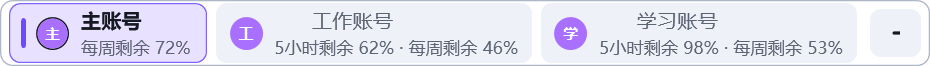
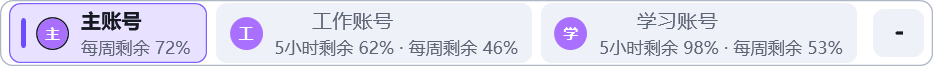
Fix responsive account overlay width and quota clipping

diff --git a/tests/OverlayUiRegression/ResponsiveLayoutRegression.cs b/tests/OverlayUiRegression/ResponsiveLayoutRegression.cs
@@ -1,0 +1,100 @@
+using System.Reflection;
+using System.Windows;
+using System.Windows.Controls;
+using System.Windows.Interop;
+using CodexProfileOverlay.Core.Models;
+using CodexProfileOverlay.Core.Services;
+
+internal static partial class Program
+{
+    private static void RunResponsiveLayoutScenario(double scale, LanguagePreference language)
+    {
+        var host = new Window { Title = "Responsive Overlay Fixture", Width = 1450, Height = 700, Left = 20, Top = 20, ShowInTaskbar = false };
+        var settings = new OverlaySettings { DisplayMode = OverlayDisplayMode.Auto, Scale = scale, ShowAutomaticLimitIndicators = true, Language = language, PositionPreset = PositionPreset.TopCenter };
+        var overlay = (Window)Activator.CreateInstance(OverlayType, settings, new SafeLogger(System.IO.Path.Combine(AppContext.BaseDirectory, "fixture-logs")))!;
+        try
+        {
+            host.Show();
+            Pump();
+            var localizerType = typeof(CodexProfileOverlay.App).Assembly.GetType("CodexProfileOverlay.Localizer")!;
+            OverlayType.GetProperty("Localizer")!.SetValue(overlay, Activator.CreateInstance(localizerType, language));
+            ProfileInfo[] profiles = [new("responsive-main", "unused", "unused") { DisplayName = "主账号", Initials = "主" }, new("responsive-two", "unused", "unused") { DisplayName = "475账号", Initials = "4" }, new("responsive-three", "unused", "unused") { DisplayName = "199账号", Initials = "1" }];
+            Call(overlay, "SetProfiles", profiles, profiles[1].Name);
+            Call(overlay, "SetStatusDocument", Document(profiles, 0), null);
+            var handle = new WindowInteropHelper(host).Handle;
+            Call(overlay, "AttachTo", handle);
+            Call(overlay, "UpdatePlacement", handle);
+            Pump();
+            AssertExpandedProfilesFit(overlay);
+            double requiredWidth = overlay.ActualWidth;
+
+            // The former fixed 620-DIP panel cannot fit two quota windows per account.
+            host.Width = requiredWidth - 35;
+            Pump();
+            Call(overlay, "UpdatePlacement", handle);
+            Pump();
+            Require((OverlayDisplayMode)OverlayType.GetField("currentMode", BindingFlags.Instance | BindingFlags.NonPublic)!.GetValue(overlay)! == OverlayDisplayMode.Compact,
+                "Auto mode must become compact when the actual account row no longer fits.");
+            Require(overlay.ActualWidth <= host.ActualWidth, "Compact overlay exceeds its owner window.");
+
+            host.Width = 1450;
+            Pump();
+            Call(overlay, "UpdatePlacement", handle);
+            Pump();
+            AssertExpandedProfilesFit(overlay);
+            Call(overlay, "SetStatusDocument", Document(profiles, 1), null);
+            Call(overlay, "UpdatePlacement", handle);
+            Pump();
+            AssertExpandedProfilesFit(overlay);
+            // Match a stale weekly-only account beside two full quota lines.
+            var screenshotDocument = Document(profiles, 0);
+            screenshotDocument.Snapshots[profiles[0].Name] = new UsageSnapshot { LongWindowRemainingPercent = 0, CapturedAt = DateTimeOffset.UtcNow.AddHours(-2) };
+            Call(overlay, "SetStatusDocument", screenshotDocument, null);
+            foreach (var active in profiles)
+            {
+                Call(overlay, "SetProfiles", profiles, active.Name);
+                Call(overlay, "UpdatePlacement", handle);
+                Pump();
+                AssertExpandedProfilesFit(overlay);
+            }
+            if (scale == 1 && language == LanguagePreference.ChineseSimplified)
+            {
+                var bitmap = new System.Windows.Media.Imaging.RenderTargetBitmap((int)Math.Ceiling(overlay.ActualWidth * 2), (int)Math.Ceiling(overlay.ActualHeight * 2), 192, 192, System.Windows.Media.PixelFormats.Pbgra32);
+                bitmap.Render((Border)overlay.Content);
+                var encoder = new System.Windows.Media.Imaging.PngBitmapEncoder();
+                encoder.Frames.Add(System.Windows.Media.Imaging.BitmapFrame.Create(bitmap));
+                using var file = System.IO.File.Create(System.IO.Path.Combine(AppContext.BaseDirectory, "responsive-layout-preview.png"));
+                encoder.Save(file);
+            }
+            Evidence.Add(new { kind = "responsive-layout", scale, language = language.ToString(), requiredWidth, refreshedWidth = overlay.ActualWidth });
+
+            var manyProfiles = Enumerable.Range(0, 12).Select(index => new ProfileInfo("responsive-" + index, "unused", "unused") { DisplayName = "账号 " + index }).ToArray();
+            Call(overlay, "SetProfiles", manyProfiles, manyProfiles[0].Name);
+            Call(overlay, "SetStatusDocument", Document(manyProfiles, 0), null);
+            Pump();
+            Require((OverlayDisplayMode)OverlayType.GetField("currentMode", BindingFlags.Instance | BindingFlags.NonPublic)!.GetValue(overlay)! == OverlayDisplayMode.Compact,
+                "Adding more accounts must immediately switch to compact without waiting for an owner resize.");
+            host.Width = 260;
+            Pump();
+            Call(overlay, "UpdatePlacement", handle);
+            Pump();
+            Require(overlay.ActualWidth <= host.ActualWidth, "Overlay exceeds a very narrow owner window.");
+        }
+        finally { overlay.Close(); host.Close(); Pump(); }
+    }
+
+    private static void AssertExpandedProfilesFit(Window overlay)
+    {
+        Require((OverlayDisplayMode)OverlayType.GetField("currentMode", BindingFlags.Instance | BindingFlags.NonPublic)!.GetValue(overlay)! == OverlayDisplayMode.Expanded, "Wide windows should show the expanded account row.");
+        var scroller = Descendants((DependencyObject)overlay.Content).OfType<ScrollViewer>().Single();
+        Require(scroller.ScrollableWidth <= 1, $"Account row overflows by {scroller.ScrollableWidth} DIP.");
+        foreach (var text in Descendants(scroller).OfType<TextBlock>().Where(text => text.Text.Contains('%')))
+        {
+            var bounds = text.TransformToAncestor(scroller).TransformBounds(new Rect(text.RenderSize));
+            Require(bounds.Left >= -0.5 && bounds.Right <= scroller.ActualWidth + 0.5, $"Quota text is outside the account viewport: {text.Text}.");
+            var natural = new TextBlock { Text = text.Text, FontFamily = text.FontFamily, FontSize = text.FontSize, FontWeight = text.FontWeight };
+            natural.Measure(new System.Windows.Size(double.PositiveInfinity, double.PositiveInfinity));
+            Require(text.ActualWidth >= natural.DesiredSize.Width - 1, $"Quota text is truncated inside its account button: {text.Text}.");
+        }
+    }
+}

diff --git a/src/CodexProfileOverlay/OverlayWindow.cs b/src/CodexProfileOverlay/OverlayWindow.cs
@@ -49,6 +49,8 @@ internal sealed class OverlayWindow : Window
     private double lastTargetTop = double.NaN;
     private bool placementDirty = true;
     private string indicatorSignature = string.Empty;
+    private double expandedLogicalWidth = 620;
+    private double availableClientWidth = double.PositiveInfinity;
 
     public OverlayWindow(OverlaySettings settings, SafeLogger logger)
     {
@@ -156,7 +158,8 @@ internal sealed class OverlayWindow : Window
             return;
         }
 
-        OverlayDisplayMode nextMode = layoutService.ResolveDisplayMode(settings.DisplayMode, clientBounds.Width, resolvedAutoMode);
+        availableClientWidth = clientBounds.Width;
+        OverlayDisplayMode nextMode = layoutService.ResolveDisplayMode(settings.DisplayMode, clientBounds.Width, resolvedAutoMode, expandedLogicalWidth * SanitizedScale);
         if (settings.DisplayMode == OverlayDisplayMode.Auto)
         {
             resolvedAutoMode = nextMode;
@@ -167,6 +170,8 @@ internal sealed class OverlayWindow : Window
             currentMode = nextMode;
             RebuildContent();
         }
+
+        UpdateWidth();
 
         bool geometryChanged = placementDirty || !NearlyEqual(clientBounds, lastClientBounds);
         if (geometryChanged)
@@ -290,15 +295,26 @@ internal sealed class OverlayWindow : Window
         bool reopenPopup = compactPopup.IsOpen && currentMode == OverlayDisplayMode.Compact;
         compactPopup.IsOpen = false;
         placementDirty = true;
-        Width = LogicalWidth * SanitizedScale;
         shell.Height = HeaderHeight;
         shell.MinHeight = HeaderHeight;
         shell.Background = FindBrush("OverlayBackgroundBrush");
         shell.BorderBrush = FindBrush("OverlayBorderBrush");
         shell.BorderThickness = new Thickness(1);
         shell.CornerRadius = new CornerRadius(8);
+        // Measure the complete row, including quota text, active marker, margins
+        // and menu button. Keep this measurement even in compact mode so auto
+        // can decide whether all accounts will fit when the owner grows.
+        UIElement expandedContent = BuildExpandedContent();
+        expandedContent.Measure(new System.Windows.Size(double.PositiveInfinity, HeaderButtonHeight));
+        expandedLogicalWidth = Math.Max(ShowQuota ? 620 : 560, Math.Ceiling(expandedContent.DesiredSize.Width + 12));
+        if (settings.DisplayMode == OverlayDisplayMode.Auto && double.IsFinite(availableClientWidth))
+        {
+            currentMode = layoutService.ResolveDisplayMode(settings.DisplayMode, availableClientWidth, resolvedAutoMode, expandedLogicalWidth * SanitizedScale);
+            resolvedAutoMode = currentMode;
+        }
         shell.Padding = new Thickness(currentMode == OverlayDisplayMode.Compact ? 6 : 5, 1, currentMode == OverlayDisplayMode.Compact ? 6 : 5, 1);
-        shell.Child = currentMode == OverlayDisplayMode.Compact ? BuildCompactContent() : BuildExpandedContent();
+        shell.Child = currentMode == OverlayDisplayMode.Compact ? BuildCompactContent() : expandedContent;
+        UpdateWidth();
         compactPopup.Child = BuildCompactPopup();
         compactPopup.PlacementTarget = shell;
         if (reopenPopup && IsVisible)
@@ -539,7 +555,7 @@ internal sealed class OverlayWindow : Window
         {
             Content = content,
             MinWidth = 108,
-            MaxWidth = ShowQuota ? 240 : 176,
+            MaxWidth = ShowQuota ? double.PositiveInfinity : 176,
             Height = HeaderButtonHeight,
             MinHeight = 0,
             Margin = new Thickness(0, 0, 6, 0),
@@ -653,6 +669,7 @@ internal sealed class OverlayWindow : Window
         Foreground = FindBrush("MutedTextBrush"),
         FontSize = 11.5,
         Margin = margin,
+        TextTrimming = TextTrimming.CharacterEllipsis,
         ToolTip = BuildUsageToolTip(profileId),
     };
 
@@ -1081,7 +1098,17 @@ internal sealed class OverlayWindow : Window
 
     private double SanitizedScale => double.IsFinite(settings.Scale) ? Math.Clamp(settings.Scale, 0.8, 1.4) : 1;
 
-    private double LogicalWidth => currentMode == OverlayDisplayMode.Compact ? (ShowQuota ? 350 : 286) : (ShowQuota ? 620 : 560);
+    private double LogicalWidth => currentMode == OverlayDisplayMode.Compact ? (ShowQuota ? 350 : 286) : expandedLogicalWidth;
+
+    private void UpdateWidth()
+    {
+        double targetWidth = Math.Max(1, Math.Min(LogicalWidth * SanitizedScale, availableClientWidth));
+        if (!NearlyEqual(Width, targetWidth))
+        {
+            Width = targetWidth;
+            placementDirty = true;
+        }
+    }
 
     private void ApplyScale()
     {

diff --git a/src/CodexProfileOverlay.Core/Services/OverlayLayoutService.cs b/src/CodexProfileOverlay.Core/Services/OverlayLayoutService.cs
@@ -9,19 +9,22 @@ public sealed class OverlayLayoutService
     private const double AfterMenuX = 396;
     private const double AfterMenuY = 2;
 
-    public OverlayDisplayMode ResolveDisplayMode(OverlayDisplayMode configuredMode, double clientWidth, OverlayDisplayMode previousAutoMode)
+    public OverlayDisplayMode ResolveDisplayMode(OverlayDisplayMode configuredMode, double clientWidth, OverlayDisplayMode previousAutoMode, double expandedWidth = 0)
     {
         if (configuredMode != OverlayDisplayMode.Auto)
         {
             return configuredMode;
         }
 
-        if (previousAutoMode == OverlayDisplayMode.Expanded && clientWidth < CompactThreshold)
+        double requiredWidth = double.IsFinite(expandedWidth) ? Math.Max(0, expandedWidth) : 0;
+        double compactThreshold = Math.Max(CompactThreshold, requiredWidth);
+        double expandedThreshold = Math.Max(ExpandedThreshold, requiredWidth + 80);
+        if (previousAutoMode == OverlayDisplayMode.Expanded && clientWidth < compactThreshold)
         {
             return OverlayDisplayMode.Compact;
         }
 
-        if (previousAutoMode != OverlayDisplayMode.Expanded && clientWidth > ExpandedThreshold)
+        if (previousAutoMode != OverlayDisplayMode.Expanded && clientWidth > expandedThreshold)
         {
             return OverlayDisplayMode.Expanded;
         }

diff --git a/tests/CodexProfileOverlay.Tests/OverlayLayoutServiceTests.cs b/tests/CodexProfileOverlay.Tests/OverlayLayoutServiceTests.cs
@@ -6,6 +6,17 @@ namespace CodexProfileOverlay.Tests;
 public sealed class OverlayLayoutServiceTests
 {
     [Fact]
+    public void ResolveDisplayMode_RequiresTheCompleteScaledAccountRowToFit()
+    {
+        var service = new OverlayLayoutService();
+        Assert.Equal(OverlayDisplayMode.Compact, service.ResolveDisplayMode(OverlayDisplayMode.Auto, 900, OverlayDisplayMode.Expanded, 950));
+        Assert.Equal(OverlayDisplayMode.Expanded, service.ResolveDisplayMode(OverlayDisplayMode.Auto, 950, OverlayDisplayMode.Expanded, 950));
+        Assert.Equal(OverlayDisplayMode.Compact, service.ResolveDisplayMode(OverlayDisplayMode.Auto, 1000, OverlayDisplayMode.Compact, 950));
+        Assert.Equal(OverlayDisplayMode.Expanded, service.ResolveDisplayMode(OverlayDisplayMode.Auto, 1040, OverlayDisplayMode.Compact, 950));
+        Assert.Equal(OverlayDisplayMode.Expanded, service.ResolveDisplayMode(OverlayDisplayMode.Expanded, 600, OverlayDisplayMode.Expanded, 950));
+    }
+
+    [Fact]
     public void ResolveDisplayMode_UsesHysteresis()
     {
         var service = new OverlayLayoutService();

diff --git a/tests/OverlayUiRegression/Program.cs b/tests/OverlayUiRegression/Program.cs
@@ -52,6 +52,9 @@ internal static partial class Program
                     foreach (var mode in new[] { OverlayDisplayMode.Compact, OverlayDisplayMode.Expanded })
                         foreach (bool quota in new[] { false, true })
                             RunHeaderLayoutScenario(scale, mode, quota);
+                foreach (double scale in new[] { 0.8, 1.0, 1.4 })
+                    foreach (var language in new[] { LanguagePreference.ChineseSimplified, LanguagePreference.English, LanguagePreference.Russian })
+                        RunResponsiveLayoutScenario(scale, language);
                 if (!args.Contains("--header-only"))
                 {
                     foreach (var scenario in new[] { (Scale: 1.0, Edge: false), (Scale: 1.4, Edge: false), (Scale: 1.0, Edge: true), (Scale: 1.4, Edge: true) })

diff --git a/README_EN.md b/README_EN.md
@@ -8,7 +8,7 @@ View five-hour and weekly remaining quotas for multiple accounts in a draggable 
 
 **English** · [简体中文](README.md)
 
-[Download EXE](https://github.com/babatuosi936/codex-swap-account-zh-cn/releases/latest/download/CodexProfileOverlay.exe) · [Release page](https://github.com/babatuosi936/codex-swap-account-zh-cn/releases/tag/v1.1.0-zh.1) · [How to use](#quick-start)
+[Download EXE](https://github.com/babatuosi936/codex-swap-account-zh-cn/releases/latest/download/CodexProfileOverlay.exe) · [Release page](https://github.com/babatuosi936/codex-swap-account-zh-cn/releases/tag/v1.1.1-zh.1) · [How to use](#quick-start)
 
 For everyday use, download the EXE and run it directly. No extraction or separate .NET installation is required.
 
@@ -31,7 +31,7 @@ Select a saved, signed-in account from the overlay to switch. The panel periodic
 | Account management and switching | Add, name, and manage accounts. Switch through the overlay, tray menu, or a custom hotkey. The active account is highlighted. |
 | Usage panel | See available five-hour and weekly remaining percentages for multiple accounts, with automatic updates and a manual refresh-all action. |
 | Shared local work | Switching changes account authorization. Your local Codex chats, sessions, and workspaces remain shared across accounts. |
-| Two overlay layouts | Expanded mode shows multiple accounts directly. Compact mode uses a single account button and menu. Automatic mode chooses a layout based on the window width. |
+| Two overlay layouts | Expanded mode sizes itself to the account and quota text. Compact mode uses a single account button and menu. Automatic mode switches to compact when the full account row will not fit, including the selected UI scale. |
 | Position and appearance | Drag the overlay, remember its position, choose a preset beside the menu or along the bottom, and adjust scaling and light or dark themes. Windows DPI scaling is supported. |
 | Mouse or hotkeys | Use the mouse for everyday actions, or configure optional hotkeys. Leave individual hotkeys unset if you prefer. Hotkey edits take effect only after clicking **Save**. |
 | Languages and system tray | Use English, Simplified Chinese, Russian, or the system language. The tray provides access to accounts, settings, and overlay visibility. |

diff --git a/CHANGELOG_ZH.md b/CHANGELOG_ZH.md
@@ -1,5 +1,13 @@
 # 中文增强版升级记录
 
+## v1.1.1-zh.1 · 2026-10-08
+
+- 修复展开浮层固定宽度导致第三个账号的额度文字被菜单按钮截断。
+- 根据账号数量、额度文字、当前账号标记及菜单按钮测量展开宽度，额度刷新和高亮变化后重新计算。
+- 自动模式按完整账号行及界面缩放判断是否放得下；窗口变窄时切换紧凑模式，恢复展开时保留宽度缓冲，避免反复切换。
+- 浮层宽度限制在 Codex 窗口内；保留原有高度、位置预设及强制展开模式的横向滚动。
+- 隔离界面验证覆盖中文、英文、俄文，0.8/1/1.4 缩放，过期额度、单窗口额度、多个账号、窗口缩放及刷新。
+
 ## v1.1.0-zh.1 · 2026-10-08
 
 基于 [ZOONGG/codex-swap-account](https://github.com/ZOONGG/codex-swap-account) 的本地源码快照升级，保留原项目 MIT 许可证及核心实现。下列内容为本仓库的新增与修复，不将上游原有功能计入新增范围。
